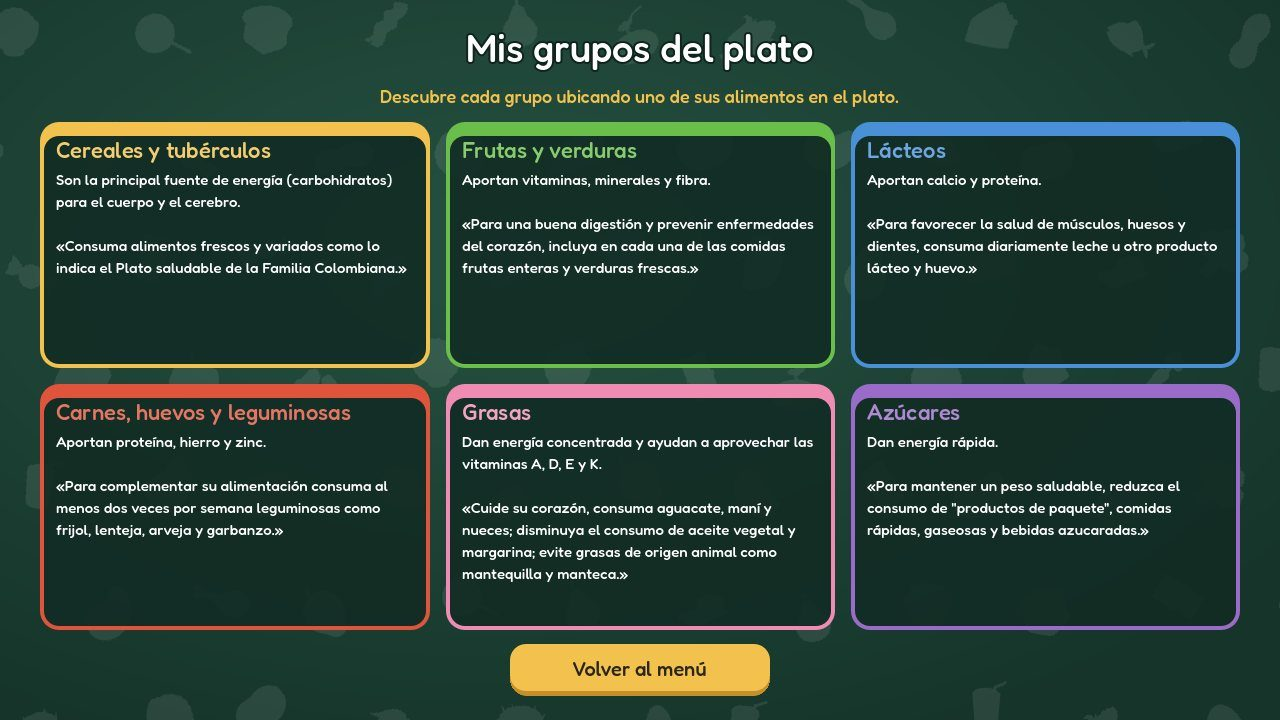
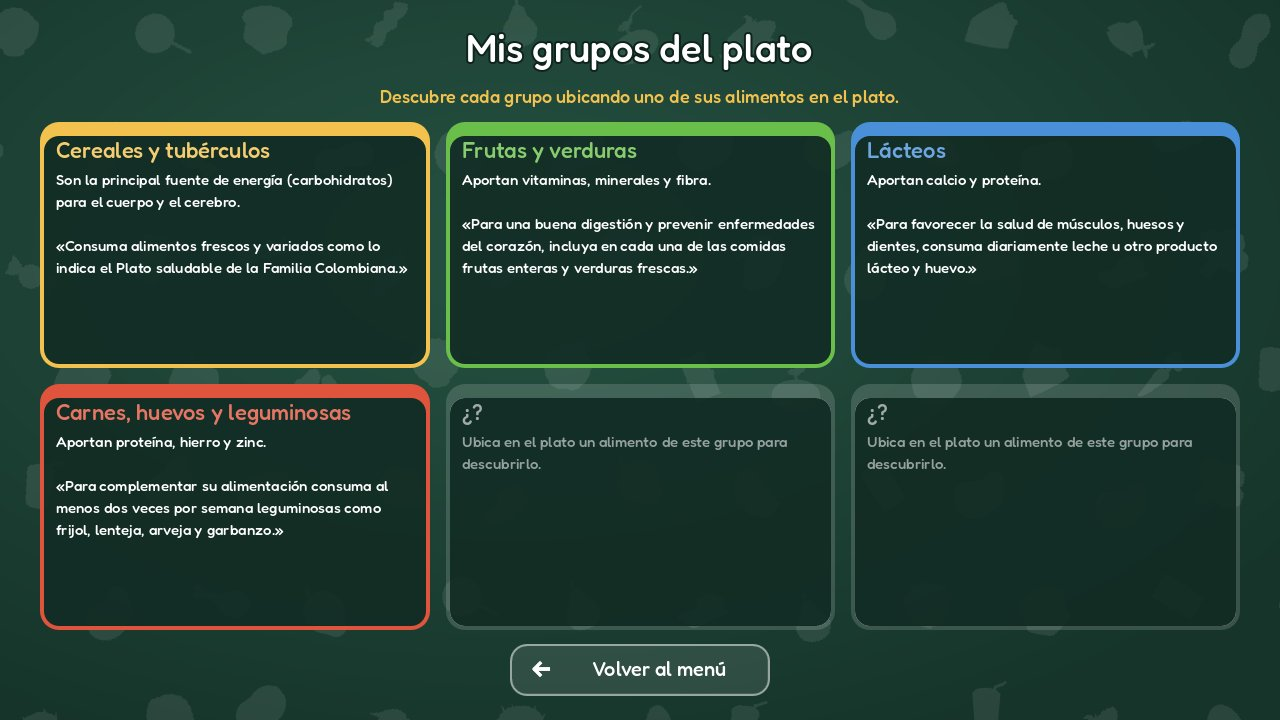
docs: update guide 8 documentation, DEVLOG and README

diff --git a/README.md b/README.md
@@ -9,7 +9,7 @@
 **Universidad Antonio Nariño (UAN)**<br>
 Facultad de Ingeniería de Sistemas y Computación
 
-![Godot](https://img.shields.io/badge/Godot-4.7-478CBF?logo=godotengine&logoColor=white) ![GDScript](https://img.shields.io/badge/GDScript-2.0%20tipado-355570) ![Renderer](https://img.shields.io/badge/Renderer-Compatibility-2e7d32) ![Avance](https://img.shields.io/badge/Avance-Gu%C3%ADa%207%20de%207-f2c14e) ![Web](https://img.shields.io/badge/Exportaci%C3%B3n-Web%20HTML5-e44d26?logo=html5&logoColor=white)
+![Godot](https://img.shields.io/badge/Godot-4.7-478CBF?logo=godotengine&logoColor=white) ![GDScript](https://img.shields.io/badge/GDScript-2.0%20tipado-355570) ![Renderer](https://img.shields.io/badge/Renderer-Compatibility-2e7d32) ![Avance](https://img.shields.io/badge/Avance-Gu%C3%ADa%208%20de%209-f2c14e) ![Web](https://img.shields.io/badge/Exportaci%C3%B3n-Web%20HTML5-e44d26?logo=html5&logoColor=white)
 
 </div>
 
@@ -23,15 +23,15 @@ El plato aparece en el centro con sus **6 grupos de alimentos** y los alimentos 
 
 Este repositorio es el proyecto integrador del semestre 2026-2: el juego crece guía tras guía siguiendo buenas prácticas de ingeniería de software.
 
-![Mi Plato Saludable](doc/img/plato.jpg)
+![Mi Plato Saludable](doc/img/plato_guia.jpg)
 
 ## 🎮 Cómo se juega
 
-- **Armar mi plato**: **arrastra** cada alimento desde su puesto hasta su división del plato.
-- Acierto: el alimento queda servido y el panel explica el grupo. Error: vuelve a su puesto y recibes una pista.
-- Completa los 12 alimentos en 150 segundos; sin errores ganas una estrella.
+- **Armar mi plato**: **arrastra** cada alimento hasta su división del plato. La primera vez, una **mano guía** te muestra cómo.
+- Acierto: **+10**, sonido y racha (x3, x5…). Error: *¡Ups!*, el alimento vuelve a su puesto y recibes una pista.
+- ¿Dudas? Toca **?**: la ayuda explica las reglas y detiene el tiempo. Completa los 12 alimentos en 150 segundos.
 - **Ganar estrellas**: minijuego de la canasta (A / D, flechas o botones en pantalla).
-- **Mis grupos del plato**: álbum de los grupos que ya descubriste. Tu progreso se guarda solo.
+- **Mis grupos del plato**: álbum de los grupos descubiertos. **Ajustes**: pistas y sonidos. Tu progreso se guarda solo.
 
 ## 🥗 Los 6 grupos del plato
 
@@ -55,6 +55,8 @@ Este repositorio es el proyecto integrador del semestre 2026-2: el juego crece g
 | 5 | Entrada, movimiento y mecánicas | Minijuego *Atrapa frutas y verduras* y estrellas de bonificación. | ✅ |
 | 6 | Máquinas de estado y Tweens | El plato interactivo: arrastrar cada alimento a su grupo. | ✅ |
 | 7 | Vertical Slice, persistencia y Web | Progreso guardado, diseño final, álbum de grupos y versión Web. | ✅ |
+| 8 | Evaluación y mejora de UX | Prueba de uso, Theme con estados, íconos, menú con la mascota Nutri, ayuda, mano guía, sonidos y popup de confirmación. | ✅ |
+| 9 | Interfaz dinámica con Resources | *Arma tu lonchera saludable*: alimentos como `Resource`, botones generados por código y lonchera de dos compartimentos. | ⏳ |
 
 Cada guía se desarrolla en su propia rama `lab-N`, se fusiona en `main` y se marca con la etiqueta `lab-N-final`.
 
@@ -72,19 +74,23 @@ Cada guía se desarrolla en su propia rama `lab-N`, se fusiona en `main` y se ma
 - Animaciones con **Tween** elegidas según la transición (estado anterior → actual).
 - **Persistencia** en `user://save_data.json` (IndexedDB en Web): estrellas, récord, grupos descubiertos y preferencias.
 - **Tema global** (`plato_theme.tres`) para una apariencia consistente en todas las pantallas.
+- **`ui_theme.tres`** reemplaza al tema anterior: estados Normal / Hover / Pressed / Disabled y variaciones `SecondaryButton` y `Popup*`.
+- **`AudioManager`** (Autoload): reproduce los sonidos que se piden por el `EventBus`; se puede apagar en Ajustes.
+- Cada alimento emite `state_changed`; el controlador de la partida muestra **instrucciones progresivas** según el estado.
 
 ## 📁 Estructura de Directorios del Repositorio
 
 ```
 src/
 ├── assets/
+│   ├── audio/
 │   ├── fonts/
 │   ├── foods/
 │   └── ui/
+│       └── icons/
 ├── components/
 │   └── navigation/
 ├── core/
-│   └── theme/
 └── scenes/
     ├── album/
     ├── config/
@@ -97,6 +103,7 @@ src/
 doc/
 ├── adr/      Registros de decisiones de arquitectura (ADR)
 ├── guias/    Qué se aplicó de cada guía
+├── ux/       Prueba de uso, análisis de interacciones e iconografía
 └── img/      Capturas para este README
 DEVLOG.md     Bitácora de desarrollo
 ```
@@ -112,13 +119,10 @@ Todos los archivos y carpetas usan `snake_case`, y cada escena vive junto a su s
 
 ## 🌐 Versión Web
 
-El preset **Web** ya está configurado en `export_presets.cfg` (sin hilos y sin cabeceras de aislamiento, compatible con itch.io).
+El preset **Web** ya está configurado en `export_presets.cfg` (sin hilos y sin cabeceras de aislamiento).
 
 1. En Godot: **Proyecto → Exportar… → Web → Exportar Proyecto** (desactiva *Exportar con depuración*).
 2. La exportación queda en `build/web/index.html` (la carpeta `build/` está excluida de Git).
-3. Comprime el contenido de `build/web/` en un ZIP con `index.html` en la raíz y súbelo a itch.io como proyecto **HTML**.
-
-**Jugar en línea:** _[pegar aquí la URL de itch.io]_
 
 ## ▶ Cómo abrir el proyecto
 
@@ -134,7 +138,7 @@ Para ver el proyecto tal como quedó al terminar una guía: `git checkout lab-N-
 
 ## 🏷 Versiones
 
-`lab-1` · `lab-2` · `lab-2-final` · `lab-3-final` · `lab-4-final` · `lab-5-final` · `lab-6-final` · `lab-7-final`
+`lab-1` · `lab-2` · `lab-2-final` · `lab-3-final` · `lab-4-final` · `lab-5-final` · `lab-6-final` · `lab-7-final` · `lab-8-final`
 
 ## 📚 Documentación
 
@@ -145,7 +149,9 @@ Para ver el proyecto tal como quedó al terminar una guía: `git checkout lab-N-
 - [`doc/guias/guia_05_entrada_mecanicas.md`](doc/guias/guia_05_entrada_mecanicas.md): qué pide la Guía 5 y cómo se aplicó al juego.
 - [`doc/guias/guia_06_fsm_tweens.md`](doc/guias/guia_06_fsm_tweens.md): qué pide la Guía 6 y cómo se aplicó al juego.
 - [`doc/guias/guia_07_vertical_slice.md`](doc/guias/guia_07_vertical_slice.md): qué pide la Guía 7 y cómo se aplicó al juego.
-- Decisiones de arquitectura: [ADR-001](doc/adr/ADR-001-colocalizacion.md), [ADR-002](doc/adr/ADR-002-event-bus-navegacion.md), [ADR-003](doc/adr/ADR-003-global-manager-button-nav.md), [ADR-004](doc/adr/ADR-004-gamificacion-recompensas.md), [ADR-005](doc/adr/ADR-005-fsm-animaciones.md).
+- [`doc/guias/guia_08_ux.md`](doc/guias/guia_08_ux.md): qué pide la Guía 8 y cómo se aplicó al juego.
+- [`doc/ux/`](doc/ux/): prueba de uso, análisis Situación / Mejora / Resultado e iconografía (Guía 8).
+- Decisiones de arquitectura: [ADR-001](doc/adr/ADR-001-colocalizacion.md), [ADR-002](doc/adr/ADR-002-event-bus-navegacion.md), [ADR-003](doc/adr/ADR-003-global-manager-button-nav.md), [ADR-004](doc/adr/ADR-004-gamificacion-recompensas.md), [ADR-005](doc/adr/ADR-005-fsm-animaciones.md), [ADR-006](doc/adr/ADR-006-theme-ux.md).
 
 ## 📜 Créditos y licencias
 
@@ -153,14 +159,16 @@ Para ver el proyecto tal como quedó al terminar una guía: `git checkout lab-N-
 - Íconos de alimentos: generados a partir de **Noto Color Emoji** (SIL Open Font License 1.1).
 - Tipografía: **Fredoka** (SIL Open Font License 1.1), licencia en `src/assets/fonts/OFL_Fredoka.txt`.
 - Fondo, logo, suelo y paredes: creados para este proyecto.
+- Íconos de interfaz, mascota Nutri, fondo del menú y efectos de sonido: creados para este proyecto.
 
 ## 🖼 Galería
 
 | | |
 |:---:|:---:|
-| ![Menú](doc/img/menu.jpg)<br>*Menú* | ![Acierto en el plato](doc/img/plato.jpg)<br>*Acierto en el plato* |
-| ![Error con pista](doc/img/error.jpg)<br>*Error con pista* | ![Mis grupos del plato](doc/img/album.jpg)<br>*Mis grupos del plato* |
-| ![Minijuego de estrellas](doc/img/minijuego.jpg)<br>*Minijuego de estrellas* | ![Plato completo](doc/img/resultado.jpg)<br>*Plato completo* |
+| ![Menú con la mascota Nutri](doc/img/menu.jpg)<br>*Menú con la mascota Nutri* | ![Mano guía e instrucciones progresivas](doc/img/plato_guia.jpg)<br>*Mano guía e instrucciones progresivas* |
+| ![Acierto: +10 y racha](doc/img/plato.jpg)<br>*Acierto: +10 y racha* | ![Error con pista](doc/img/error.jpg)<br>*Error con pista* |
+| ![Ayuda: el tiempo se detiene](doc/img/ayuda.jpg)<br>*Ayuda: el tiempo se detiene* | ![Popup de confirmación](doc/img/popup_plato.jpg)<br>*Popup de confirmación* |
+| ![Mis grupos del plato](doc/img/album.jpg)<br>*Mis grupos del plato* | ![Ajustes con sonido](doc/img/ajustes.jpg)<br>*Ajustes con sonido* |
 
 ## 👨💻 Autor
 

diff --git a/doc/guias/guia_08_ux.md b/doc/guias/guia_08_ux.md
@@ -1,0 +1,65 @@
+# Guía 8 · Evaluación y Mejora de la Experiencia de Usuario
+
+**Etapa del proyecto:** `lab-8` · tag `lab-8-final`
+
+## Qué pide la guía
+
+1. Prueba de uso con una persona que no conoce el juego (test escrito + observaciones).
+2. Analizar la comunicación del minijuego (*Pizza Rush*) con el formato Situación / Mejora / Resultado.
+3. Convenciones de interfaz e íconos (identificarlos).
+4. Theme `ui_theme.tres` en `src/assets/ui` con estados Normal / Hover / Pressed / Disabled, asignado en la raíz de cada escena de interfaz.
+5. Fondo `TextureRect` en el menú (Ignore Size, Keep Aspect Centered, Z Index negativo, Mouse Filter Ignore). Menú terminado y decorado.
+6. Popup de confirmación en la factura (`PurchaseSuccessPopup`) que se muestra al confirmar.
+7. Retos: instrucciones progresivas, otra mejora detectada en pruebas, popup refinado.
+
+## Cómo se aplicó a Mi Plato Saludable
+
+| Guía (Pizza) | Proyecto (Plato) | Archivo |
+|---|---|---|
+| Prueba de uso | Test con el flujo plato → estrellas → plato con estrella | `doc/ux/prueba_de_usuario.md` |
+| Análisis de *Pizza Rush* | Análisis del plato interactivo (tomar, arrastrar, soltar bien, soltar mal, ayuda, terminar) | `doc/ux/analisis_interacciones.md` |
+| Iconografía | Tabla con las 5 preguntas para 12 botones; **además se implementaron** los íconos | `doc/ux/iconografia.md`, `src/assets/ui/icons/` |
+| `ui_theme.tres` | Theme con estados de botón y variaciones `SecondaryButton`, `PopupCard`, `PopupOverlay`, `PopupTitle`, `PopupText`; interruptores verde/gris | `src/assets/ui/ui_theme.tres` |
+| Fondo del menú | Ilustración propia: mantel de cuadros con alimentos + mascota **Nutri** que "respira" y da consejos GABA | `menu_panel.tscn`, `src/assets/ui/menu_background.png`, `mascot_nutri.png` |
+| `PurchaseSuccessPopup` | `PlateSuccessPopup` en el resumen del plato | `plate_summary.tscn/.gd` |
+
+### Theme (Paso 2.3)
+
+* `Button`: `normal` amarillo algo apagado, `hover` más vivo con borde claro y sombra, `pressed` más oscuro con borde de 3 px, `disabled` gris plano, `focus` con contorno. Colores de texto e íconos por estado.
+* `SecondaryButton` (Volver, Ajustes, Créditos, Salir): verde oscuro translúcido con texto blanco, para que la acción principal (amarilla) destaque.
+* Asignado en la raíz de: `MainApp/SceneContainer`, `MenuPanel`, `ConfigPanel`, `CreditsPanel`, `AlbumPanel`, `BonusEvent`, `PlateSummary`, los controles de `PlateGame` (HUD, panel de información, resultado, ayuda; la raíz es un `Node2D`, que no tiene propiedad Theme) y los del minijuego.
+
+### Fondo y menú (Paso 2.4)
+
+`Background` (`TextureRect`): `expand_mode = Ignore Size`, `stretch_mode = Keep Aspect Centered`, `z_index = -1`, `mouse_filter = Ignore`. Para que se viera, los fondos de `MainApp` se bajaron a `z_index = -10`. El título va sobre una banda oscura para mantener el contraste.
+
+### Popup (Parte 3)
+
+```gdscript
+@onready var pop_up_confirm: Panel = $PlateSuccessPopup
+
+func _on_confirm() -> void:
+	if not applied_bonus.is_empty():
+		GlobalManager.remove_bonus(applied_bonus)   # se mantiene la lógica
+	lbl_bonus.text = "¡Plato confirmado!"
+	...
+	_show_success_popup()                           # pop_up_confirm.show() + animación
+```
+
+El botón *Continuar* es un `ButtonNav` hacia el menú con `discard_previous`.
+
+### Mejoras adicionales para que el juego sea más entretenido
+
+* **Sonidos** (`AudioManager`, autoload): clic, tomar, soltar, acierto, error, racha, estrella, victoria y derrota. Opción para apagarlos.
+* **Racha** de aciertos con banner y **confeti** al completar el plato.
+* **Cursor** de mano y de arrastre sobre los alimentos.
+
+## Verificación realizada
+
+`tests/test_lab8.gd` (con mouse real en Xvfb): Theme en las escenas, fondo con z negativo y mouse ignore, íconos, sonido apagable y persistente, mano guía la primera vez, ayuda que pausa y reanuda el tiempo, tutorial completado al primer acierto, "+10" flotante, racha x3, error que reinicia la racha, popup oculto → visible con el total 120 → *Continuar* vuelve al menú. **0 fallas.** Regresión de las Guías 6 y 7 (arrastre, persistencia, minijuego): superada.
+
+| Menú decorado | Mano guía e instrucción |
+|---|---|
+| ![](../img/menu.jpg) | ![](../img/plato_guia.jpg) |
+| **Ayuda (pausa el tiempo)** | **Popup de confirmación** |
+| ![](../img/ayuda.jpg) | ![](../img/popup_plato.jpg) |

diff --git a/DEVLOG.md b/DEVLOG.md
@@ -123,3 +123,32 @@
 ### Estado Final
 
 El Vertical Slice fue integrado, refinado y exportado para Web; queda listo para publicarse en itch.io.
+
+## [2026-10-16] - Laboratorio 8: Evaluación y Mejora de UX
+
+### Actividades Realizadas
+
+* Se escribió el test de usuario y el protocolo de observación (`doc/ux/prueba_de_usuario.md`) y se registraron los hallazgos de la versión del Lab 7.
+* Se analizaron las interacciones del plato interactivo (tomar, arrastrar, soltar bien, soltar mal, ayuda, terminar) con el formato Situación / Mejora / Resultado (`doc/ux/analisis_interacciones.md`).
+* Se aplicaron convenciones visuales e iconografía: 16 íconos propios (X, flecha, engranaje, play, papelera, ✓, ?, i, estrella, libro, plato…) integrados en los botones (`doc/ux/iconografia.md`).
+* Se creó `src/assets/ui/ui_theme.tres` con estados Normal / Hover / Pressed / Disabled y variaciones (`SecondaryButton`, `PopupCard`, `PopupOverlay`, `PopupTitle`, `PopupText`), asignado en la raíz de todas las escenas de interfaz.
+* Se refinó la jerarquía visual: acción principal amarilla, acciones secundarias verdes, título sobre banda de contraste.
+* Se decoró el menú principal: fondo ilustrado (mantel con alimentos) y la mascota Nutri, que se anima y da consejos de las Guías Alimentarias.
+* Se agregó `PlateSuccessPopup` al resumen del plato: aparece al confirmar, conserva la lógica de consumir la estrella y vuelve al menú con *Continuar*.
+* Retos: instrucciones progresivas según el estado del alimento, mano guía la primera vez, ayuda que pausa el tiempo, aviso de poco tiempo, invitación tras inactividad, popup refinado.
+* Más entretenido: sonidos (`AudioManager`), racha de aciertos, "+10" flotante, confeti y cursores.
+
+### Desafíos y Soluciones
+
+* **Desafío:** El fondo del menú no se veía.
+* **Solución:** Con `z_index = -1` quedaba debajo del fondo de `MainApp`; los fondos de `MainApp` se bajaron a `z_index = -10`.
+* **Desafío:** Los íconos oscuros desaparecían en los botones secundarios oscuros.
+* **Solución:** Íconos blancos y colores de ícono por estado definidos en el Theme.
+* **Desafío:** La barra de instrucciones tapaba los alimentos de la fila inferior.
+* **Solución:** Se movió a la esquina inferior izquierda, donde no hay bandejas.
+* **Desafío:** Mientras la ayuda estaba abierta, el tiempo seguía corriendo.
+* **Solución:** `timer_gameover.paused = true` al abrirla y `false` al cerrarla.
+
+### Estado Final
+
+Se realizó una evaluación de la experiencia de usuario y se aplicaron mejoras visuales y de comunicación sobre el proyecto.
